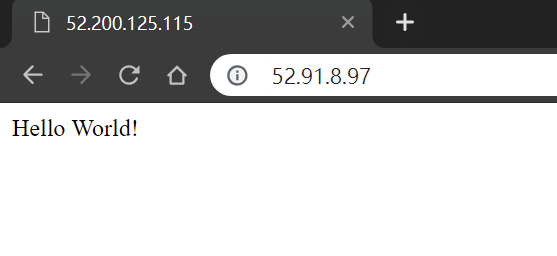
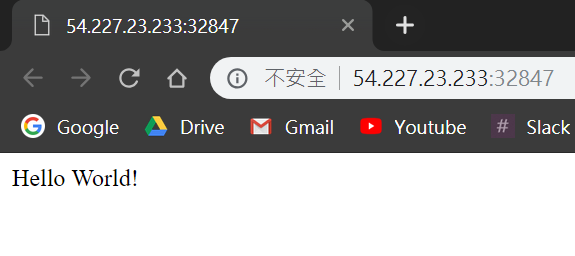
WIP 1018

diff --git a/203-Auto-Scaling-on-Amazon-ECS/README.md b/203-Auto-Scaling-on-Amazon-ECS/README.md
@@ -1,0 +1,42 @@
+# Auto Scaling on Amazon ECS
+
+After learning how to create a service on Amazon ECS, we will learn how to auto scale service on Amazon ECS and use Amazon Elastic Load Balancer to forward requests.
+
+## Prerequisites
+* Make sure the region is **US East (N. Virginia)**, which its short name is **us-east-1**.
+
+* Make sure you have created service on Amazon ECS by following [Get Started with Amazon ECS Service](../202-Get-Started-with-Amazon-ECS-Service/README.md).
+
+## Auto Scale Service While Using Fargate
+While using Fargate, we can scale the service to fit our requrement without taking care of instances.
+
+* In Amazon ECS console, click **Clusters** on left panel. 
+
+* Click **FargateCluster**.
+
+* In tab **Services**, click **Create** button.
+
+
+
+
+
+## Use EC2
+
+### Use Fargate
+
+### Use EC2
+
+## Auto Scale Fargate on Amazon ECS
+
+## Auto Scale EC2 Instances on Amazon ECS
+
+## Create a Revision for EC2 Task
+If you are using Fargate, please skip to next section. 
+
+* In Amazon ECS, click **Task Definitions** on left panel.
+
+* Select **runWebServerWithEC2** and click **Create new revision**.
+
+* Step to **Container Definitions** part, and click container **my_web_server**.
+
+* In **port mappings**, leave **Host port** as **blank**. Because each host port can only be used by a container at the same time. If we leave host port as blank, a randon host port will be assigned to container. In the later section, we will use Elastic Load Balancer to disperse and forward requests to containers with different host ports.

diff --git a/202-Get-Started-with-Amazon-ECS-Service/README.md b/202-Get-Started-with-Amazon-ECS-Service/README.md
@@ -46,7 +46,11 @@ The following content is divided into two parts. For using Amazon Fargate, pleas
 
 * In **Task Definition Name**, type **runWebServerWithFargate**.
 
-* Step to Task Size part, In **Task Memory (GB)**, select **0.5GB**.
+* In **Network Mode**, select **awsvpc**.
+
+* Step to Task execution IAM role part, in **Task execution role**, select **Create new role**.
+
+* Step to Task Size part, in **Task Memory (GB)**, select **0.5GB**.
 
 * In **Task CPU (vCPU)**, select **0.25 vCPU**.
 
@@ -167,7 +171,7 @@ To avoid excessive billing, please delete the following resources when you have 
 
 * In **Network Mode**, select **\<default\>**.
 
-* Step to Task Size part, In **Task Memory (MiB)**, type **512**.
+* Step to Task Size part, In **Task Memory (MiB)**, type **256**.
 
 * In **Task CPU (unit)**, type **0.25 vCPU**.
 
@@ -183,7 +187,7 @@ To avoid excessive billing, please delete the following resources when you have 
 
   ![container.png](../images/container.png)
 
-* In **Port mappings**, type **80** for Host port, type **80** for Container port and select **tcp**.
+* In **Port mappings**, type **0** for Host port(or leave it as blank), type **80** for Container port and select **tcp**.
 
 * Click **Add**.
 
